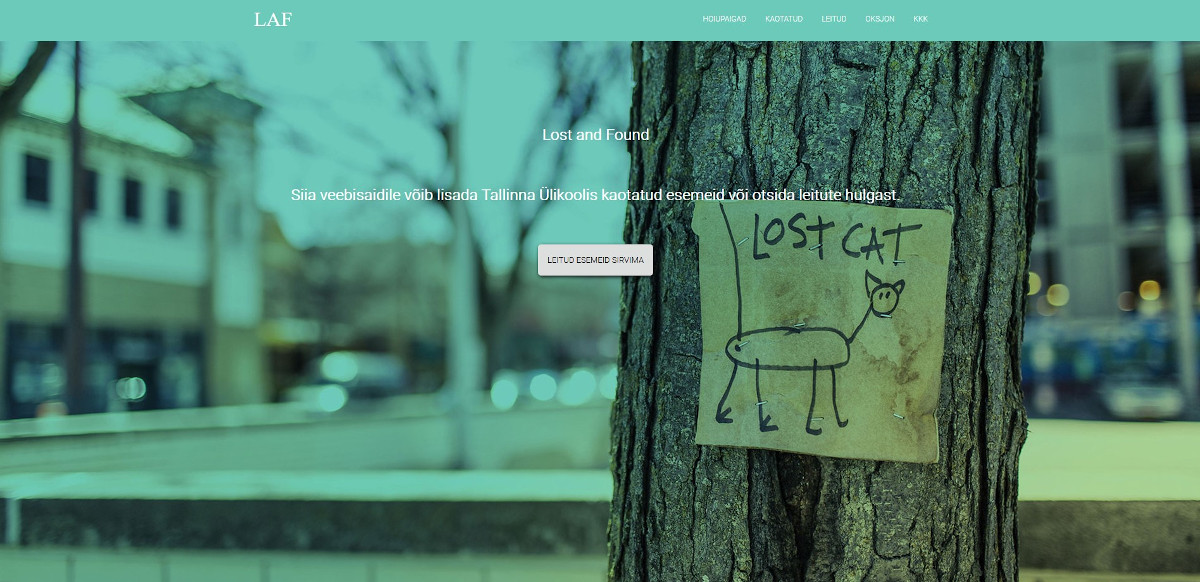
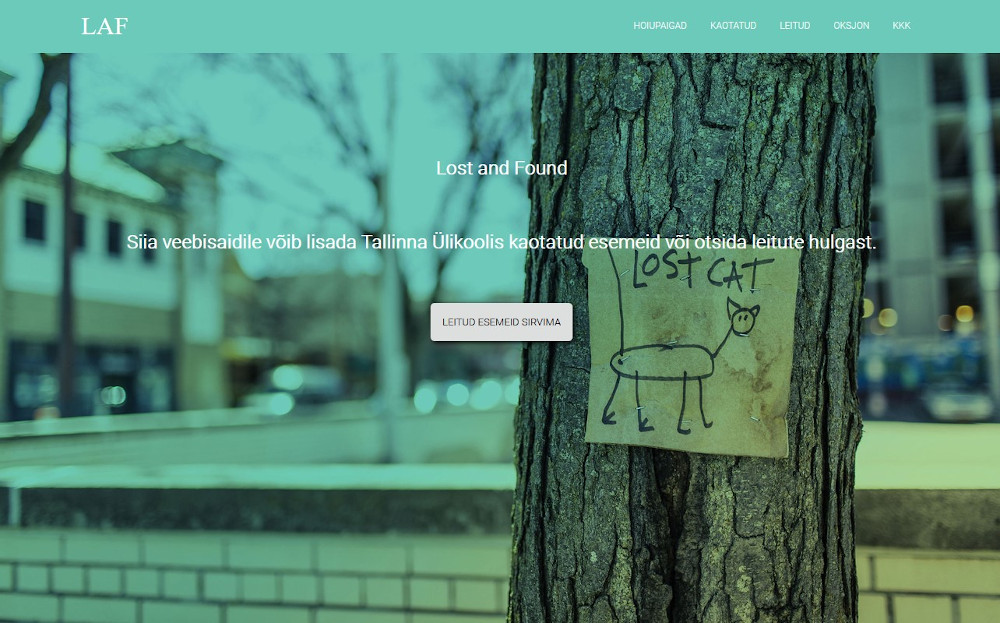
väiksemad pildid + viide, et leht vaid TLÜ tudengitele

diff --git a/README.md b/README.md
@@ -1,10 +1,10 @@
 # TLÜ LAF
 
 ## Eesmärk ja lühikirjeldus
-LAF-i veebilehe abil on võimalik tudengitel jt Tallinna Ülikooli külalistel lihtsamini leida enda kaduma läinud esemeid. Juhul kui eseme omanikku ei selgu, siis liigub leitud ese oksjoni rubriiki. Oksjonil on võimalik kõigil soovijatel teha oma pakkumine ning ese ära osta.
+LAF-i veebilehe abil on võimalik Tallinna Ülikooli tudengitel lihtsamini leida enda kaduma läinud esemeid. Juhul kui eseme omanikku ei selgu, siis liigub leitud ese oksjoni rubriiki. Oksjonil on võimalik soovijal teha oma pakkumine ning ese ära osta.
 
 Lehest on suur abi ka ülikoolile kuna varasemalt jäi palju asju kappidesse seisma. Töötajate elu lihtsustamiseks on lisatud mitmeid automaatseid tegevusi:
-- kuulutuste kustumine teatud aja pärast
+- kuulutuste kustumine teatud aja möödudes
 - leitud eseme kuulutuse oksjoni rubriiki liikumine
 - e-maili teavitused eseme leidmise/oksjoni võidu puhul
 
